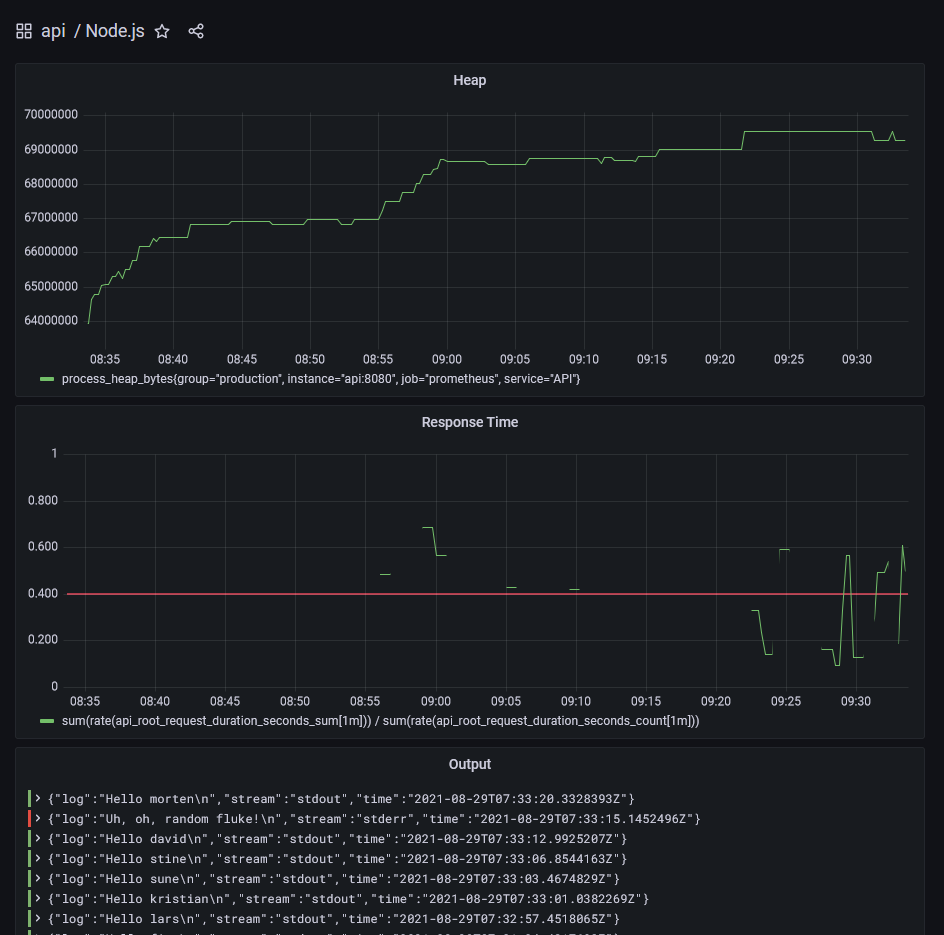
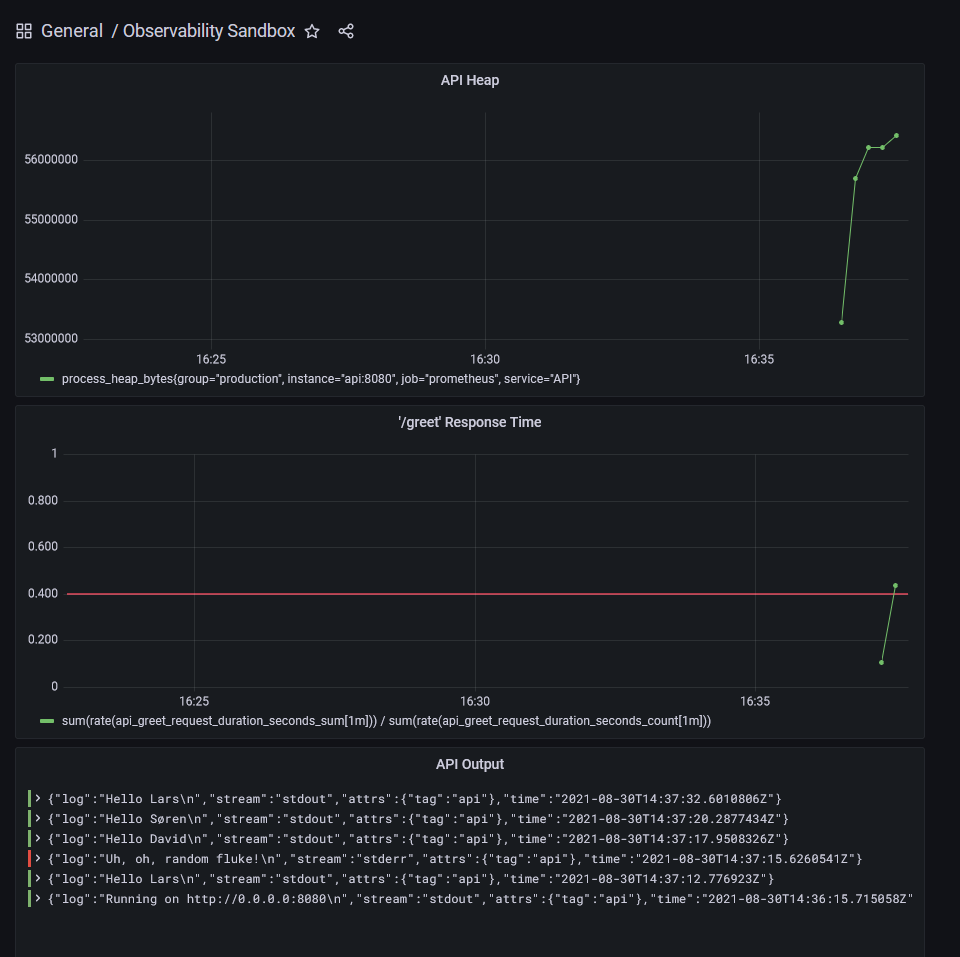
promtail config: generic

diff --git a/nodejs/api/api.js b/nodejs/api/api.js
@@ -8,11 +8,11 @@ const host = '0.0.0.0';
 const collectDefaultMetrics = client.collectDefaultMetrics;
 collectDefaultMetrics({ timeout: 1000 });
 const apiGreetRequestsTotalCounter = new client.Counter({
-  name: 'api_root_requests_total',
+  name: 'api_greet_requests_total',
   help: 'Total number of requests to http://api/greet',
 });
 const apiGreetRequestDurationSeconds = new client.Histogram({
-  name: 'api_root_request_duration_seconds',
+  name: 'api_greet_request_duration_seconds',
   help: 'Total number of requests to http://api/greet',
   buckets: [0.001, 0.05, 0.15, 0.50, 1.00, 5.00],
 });

diff --git a/README.md b/README.md
@@ -20,65 +20,43 @@ In Windows Command Prompt:
 net use h: \\wsl$\docker-desktop-data
 ```
 
-For the remaining steps use Docker Desktop with WSL2 back-end, and run from Ubuntu
+For the remaining steps use Docker Desktop with WSL2 back-end, and run from Git Bash
 
 ```
 sudo mkdir /mnt/docker
 sudo mount -t drvfs h: /mnt/docker
 ```
 
-## Terminal: Prometheus (observation store)
+## Start all services
 
 ```
-(cd prometheus && ./restart.sh)
+docker-compose up --build
 ```
 
-http://localhost:9090/graph
+## Use services
 
-## Terminal: Loki (log store)
+- Front-end (our code): http://localhost:8081/
+- API (our code): http://localhost:8080/greet?name=Lars
+- Grafana (visualization): http://localhost:3000 (auth: lars/lars)
+- Prometheus (metric store): http://localhost:9090/graph
+- Loki (log store): http://localhost:3100/ready
+- Promtail (log collector): http://localhost:9080/
+
+## Start services individually
+
+Instead of using docker-compose, each service can be started individually:
 
 ```
 (cd loki && ./restart.sh)
-```
-
-http://localhost:3100/metrics
-
-## Terminal: Grafana (observability visualization)
-
-```
-(cd grafana && ./restart.sh)
-```
-
-http://localhost:3000/
-
-Username/password: lars/lars
-
-## Terminal: Web API (our code)
-
-```
-(cd nodejs && ./restart.sh)
-```
-
-http://localhost:8080/greet?name=Lars
-
-## Terminal: Promtail (log collector)
-
-```
 (cd promtail && ./restart.sh)
-```
-
-http://localhost:9080/
-
-## Terminal: CDN (our code)
-
-```
+(cd nodejs && ./restart.sh)
+(cd prometheus && ./restart.sh)
+(cd grafana && ./restart.sh)
 (cd cdn && ./restart.sh)
 ```
 
-http://localhost:8081/
-
 ## Sample display
 
-http://localhost:3000/d/api/node-js
+http://localhost:3000/d/obs/observability-sandbox
 
 ![Sample display](./media/grafana-dashboard.png)
